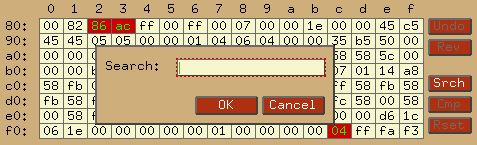
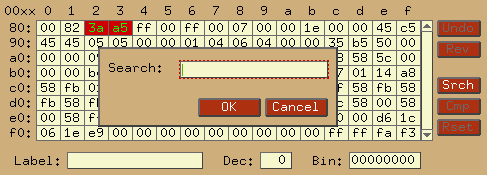
Reworked the extended RAM editing in the debugger, allowing for those schemes that have multiples areas of RAM.  Converted F4SC, F6SC, F8SC, FASC to this new functionality.
Added ability to modify extended RAM in 3E, CV, E7 and EFSC ROMs.
Note that these ROMs can swap RAM in and out dynamically, so what
you see in the RAM area won't always be RAM.

Updated debugger CpuWidget; decimal and binary values for SP/A/X/Y
are now all shown at the same time (previously the registers had to
share a decimal/binary view).

Updated debugger documentation for recent additions.

diff --git a/docs/debugger.html b/docs/debugger.html
@@ -41,7 +41,7 @@ feature that no other 2600 debugger has; it's <b>completely</b> cross-platform.<
 	<li>Symbolic names in disassembly</li>
 	<li>Symbolic names accepted as input</li>
 	<li>Tab completion for commands and symbol names</li>
-	<li>Graphical editor for RIOT RAM. Acts a lot like a spreadsheet.
+	<li>Graphical editor for RIOT and extended RAM. Acts a lot like a spreadsheet.
 		Input in hex, with displays for label/decimal/binary for
 		currently-selected location.</li>
 	<li>GUI CPU state window</li>
@@ -73,7 +73,7 @@ feature that no other 2600 debugger has; it's <b>completely</b> cross-platform.<
 	<li>Save patched ROM ("saverom filename.bin").</li>
 </ul>
 
-<h2>Future planned features (post 2.0):</h2>
+<h2>Future planned features:</h2>
 
 <ul>
 	<li>GUI for cheat codes (Cheetah and normal codes).</li>
@@ -88,7 +88,7 @@ feature that no other 2600 debugger has; it's <b>completely</b> cross-platform.<
 		available in a very crude form ("loadlist" and "list" commands).</li>
 	<li>More "special variables" for the expression parser.</li>
 	<li>Possibly a mini-assembler</li>
-	<li>Support for extra RAM in Supercharger and other cart types.</li>
+	<li>Support for extra RAM in all remaining cart types.</li>
 	<li>Possibly support for recording and playing back input files, like
 		MAME. This isn't a debugger feature per se, but it'll make it easier
 		to reliably trigger a bug so you can debug it.</li>
@@ -793,9 +793,11 @@ See the "Breakpoints" section for details.</p>
 <p>This displays the current CPU state, as shown:</p>
 <p><img src="graphics/debugger_cpuregs.png"></p>
 <p>All the registers and flags are displayed, and can be changed by
-double-clicking on them. Flags are toggled on double-click.  Selected registers
-here can also be changed by using the "Data Operations" buttons, further
-described in (J).</p>
+double-clicking on them (to the left). Flags are toggled on double-click.
+Selected registers here can also be changed by using the "Data Operations" buttons,
+further described in (J).  All items are shown in hex.  Any label defined for the
+current PC value is shown to the right.  Decimal and binary equivalents
+are shown for SP/A/X/Y to the right (first decimal, then binary).</p>
 <p>There's not much else to say about the CPU widget: if you know 6502
 assembly, it's pretty self-explanatory. If you don't, well, you should
 learn :)</p>
@@ -826,16 +828,28 @@ respond to these same keyboard shortcuts.  If in doubt, give them a try.</p>
 
 <!-- /////////////////////////////////////////////////////////////////////////  -->
 <br>
-<h2><u>(K)</u> M6532/RIOT RAM</h2>
+<h2><u>(K)</u> M6532/RIOT and extended RAM</h2>
 <p>This is a spreadsheet-like GUI for inspecting and changing the contents
-of the 2600's RAM. All 128 bytes of RAM are visible on the screen at
-once. You can navigate with either the mouse or the keyboard arrow keys.
+of the 2600's RAM. You can view 128 bytes of RAM at a time, starting with
+the RAM built in to the console (zero-page RAM).  If a cartridge contains
+extended RAM, a scrollbar will be activated, allowing to scroll in
+sequence through each 128 byte 'bank' of RAM.  The address in the upper left
+corner indicates the offset (in terms of the read port) for the bank
+currently being displayed.</p>
+<p>You can navigate with either the mouse or the keyboard arrow keys.
 To change a RAM location, either double-click on it or press Enter while
 it's highlighted. Enter the new value (hex only for now, sorry), then
 press Enter to make the change. If you change your mind, press Escape
 and the original value will be restored.  The currently selected RAM cell
 can also be changed by using the Data operations buttons/associated
 shortcut keys (J).</p>
+<p><b>Note:</b> Many extended RAM schemes involve different addresses for
+reading versus writing RAM (read port vs. write port).  The UI takes care
+of this for you; although the addresses shown are for the read port,
+modifying a cell will use the write port.  Also, some bankswitching
+schemes can swap RAM and ROM dynamically during program execution.  In
+these cases, the values shown may not always be for RAM, and may point
+to ROM instead.  In the latter case, the data cannot be modified.</p>
 <p><img src="graphics/debugger_ram.png"></p>
 <p>The 'Undo' button in the upper right should be self-explanatory; it will
 undo the most previous operation to one cell only.  The 'Rev' button is
@@ -849,8 +863,8 @@ The remaining buttons to the right are further explained in section (L).</p>
 
 <!-- /////////////////////////////////////////////////////////////////////////  -->
 <br>
-<h2><u>(L)</u> M6532/RIOT RAM (search/compare mode)</h2>
-<p>The RIOT RAM widget also lets you search memory for values such as lives or remaining
+<h2><u>(L)</u> M6532/RIOT and extended RAM (search/compare mode)</h2>
+<p>The RAM widget also lets you search memory for values such as lives or remaining
 energy, but it's also very useful when debugging to determine which
 memory location holds which quantity.</p>
 <p><img src="graphics/debugger_ramsearch.png"></p>
@@ -867,7 +881,7 @@ addresses and allows another search.</p>
 <p>The following is an example of inspecting all addresses that have
 decreased by 1:</p>
 <ul>
-	<li>Click 'Srch' with empty input.  All 128 address/values are highlighted</li>
+	<li>Click 'Srch' with empty input.  All address/values are highlighted</li>
 	<li>Exit debugger mode and lose a life, let your energy decrease, or
 		do whatever it is you're trying to debug</li>
 	<li>Enter debugger mode again, click 'Cmp' and and enter a '-1' for input.
